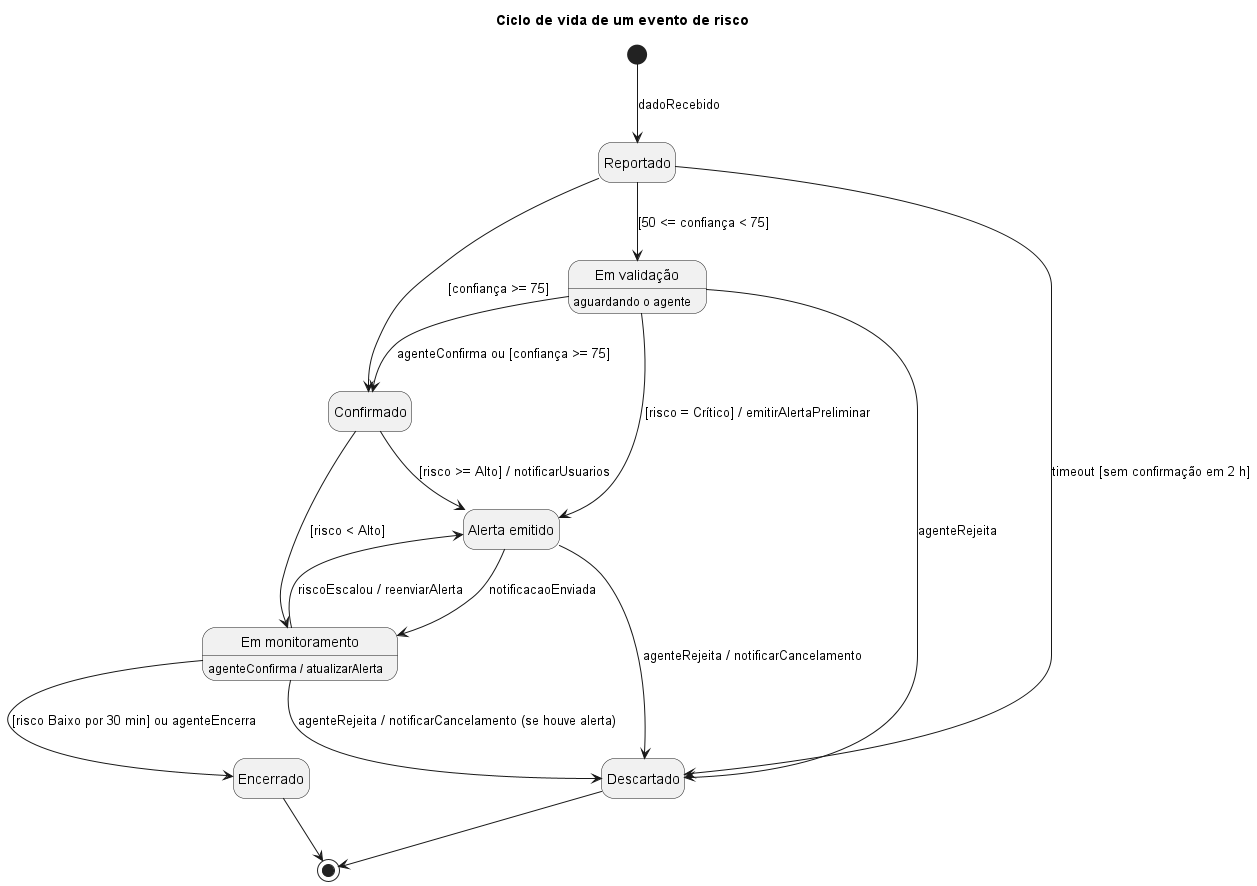
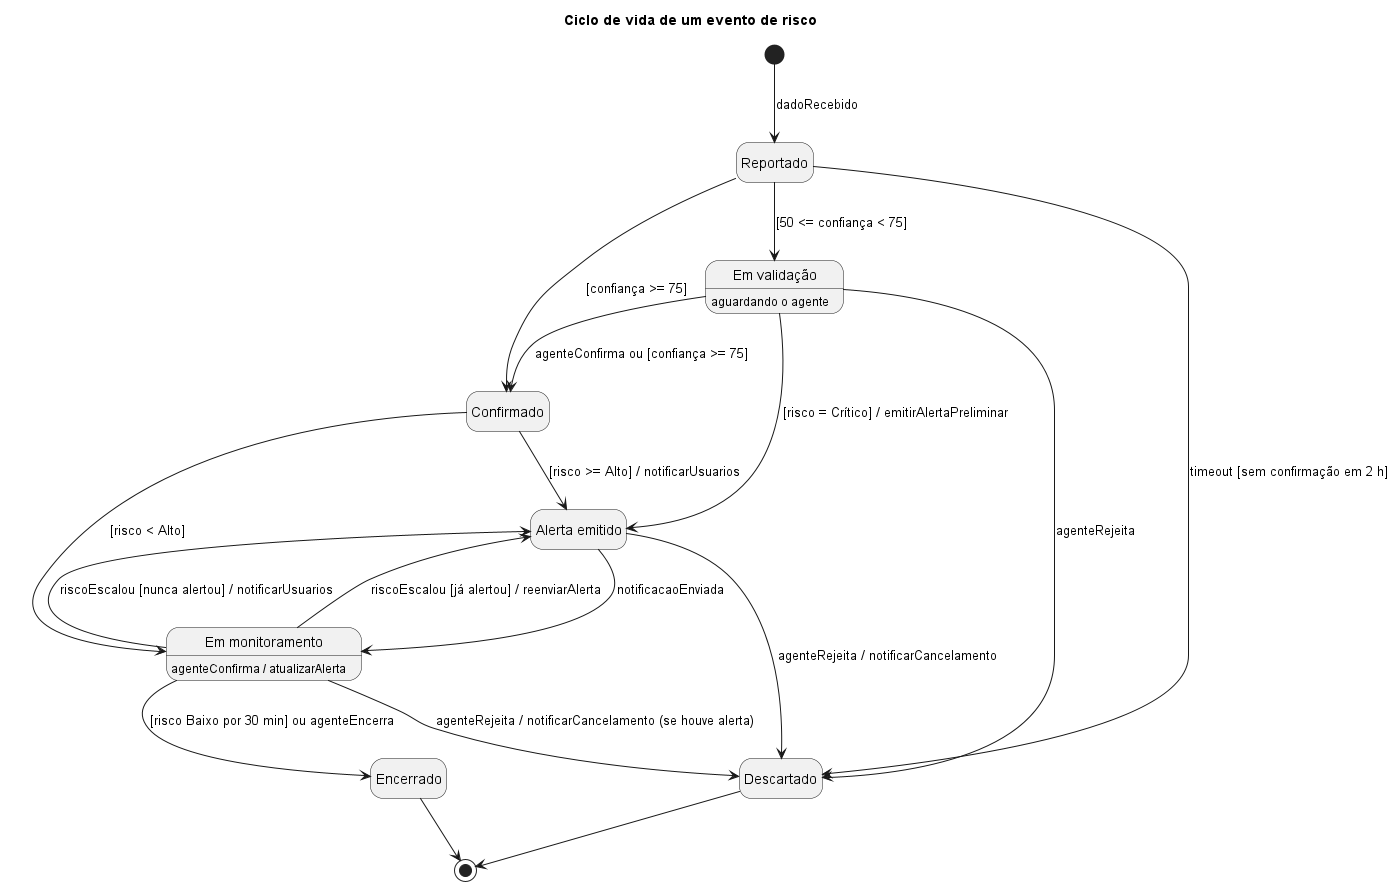
RN06 por bairro com centro e raio; RN01 com escalada após confirmação
- bairros.json com centro e raio aproximados (OpenStreetMap); área por bairro
  vira círculo: alcança se distância(centro, evento) <= raio da área + raio afetado
- RN01: depois de confirmado, a escalada alerta sem nova checagem de confiança;
  primeiro alerta usa notificarUsuarios, os seguintes reenviarAlerta
- estados.puml: duas transições com guarda [nunca alertou] / [já alertou], PNG renderizado
- 01-requisitos.md (RN01, RN06, Sobre o RF13) e CLAUDE.md atualizados; 145 testes

diff --git a/app/src/services/notificacao.test.js b/app/src/services/notificacao.test.js
@@ -1,5 +1,6 @@
 import { describe, expect, it } from 'vitest'
-import { deveNotificar, raioAfetado } from './notificacao.js'
+import { deveNotificar, raioAfetado, resolverAreas } from './notificacao.js'
+import BAIRROS from '../data/bairros.json'
 import { deslocarParaNorte } from './geo.js'
 import { MINUTO } from './parametros.js'
 
@@ -38,14 +39,46 @@ describe('RN06 — raio afetado', () => {
     expect(deveNotificar(usuario, evento(), { agora: AGORA })).toBe(true) // 1500 ≤ 1000 + 500
   })
 
-  it('área por bairro: notifica se o evento é naquele bairro', () => {
-    const ana = { areasInteresse: [{ tipo: 'bairro', bairro: 'Parque Viana' }, { tipo: 'bairro', bairro: 'Jardim Maria Helena' }] }
-    expect(deveNotificar(ana, evento(), { agora: AGORA })).toBe(true)
-    expect(deveNotificar(ana, evento({ bairro: 'Vila Lourdes' }), { agora: AGORA })).toBe(false)
-  })
 
   it('respeita os tipos de risco escolhidos nas Preferências (RF13)', () => {
     expect(deveNotificar(usuarioEm(0, { tiposRisco: ['Ilha de calor'] }), evento(), { agora: AGORA })).toBe(false)
+  })
+})
+
+describe('RN06 — área por bairro (centro e raio aproximados, RF13)', () => {
+  const PARQUE_VIANA = BAIRROS.find((b) => b.nome === 'Parque Viana')
+  const soParqueViana = { areasInteresse: resolverAreas([{ tipo: 'bairro', bairro: 'Parque Viana' }], BAIRROS) }
+
+  it('resolverAreas completa o bairro com centro e raio do catálogo', () => {
+    expect(soParqueViana.areasInteresse[0]).toMatchObject({ lat: PARQUE_VIANA.lat, lng: PARQUE_VIANA.lng, raioM: 500 })
+    expect(() => resolverAreas([{ tipo: 'bairro', bairro: 'Alphaville' }], BAIRROS)).toThrow()
+  })
+
+  it('alagamento no Jd. Maria Helena perto da divisa alcança quem só tem Parque Viana', () => {
+    const pertoDaDivisa = evento({ bairro: 'Jardim Maria Helena', lat: -23.534, lng: -46.865 }) // ~800 m do centro do Parque Viana
+    expect(deveNotificar(soParqueViana, pertoDaDivisa, { agora: AGORA })).toBe(true)
+  })
+
+  it('alagamento no centro do Jd. Maria Helena (~1,3 km) não alcança quem só tem Parque Viana', () => {
+    const centroJmh = evento({ bairro: 'Jardim Maria Helena', lat: -23.5293, lng: -46.8638 })
+    expect(deveNotificar(soParqueViana, centroJmh, { agora: AGORA })).toBe(false)
+  })
+
+  it('limite exato: raio do bairro (500) + raio afetado (500) = 1000 m alcança; 1001 m não', () => {
+    const naBorda = evento(deslocarParaNorte(PARQUE_VIANA, 1000))
+    const foraDaBorda = evento(deslocarParaNorte(PARQUE_VIANA, 1001))
+    expect(deveNotificar(soParqueViana, naBorda, { agora: AGORA })).toBe(true)
+    expect(deveNotificar(soParqueViana, foraDaBorda, { agora: AGORA })).toBe(false)
+  })
+
+  it('Ilha de calor usa raio afetado de 1 km: até 1500 m do centro do bairro', () => {
+    const calor = (metros) => evento({ tipo: 'Ilha de calor', ...deslocarParaNorte(PARQUE_VIANA, metros) })
+    expect(deveNotificar(soParqueViana, calor(1500), { agora: AGORA })).toBe(true)
+    expect(deveNotificar(soParqueViana, calor(1501), { agora: AGORA })).toBe(false)
+  })
+
+  it('área sem centro e raio é um erro de dados', () => {
+    expect(() => deveNotificar({ areasInteresse: [{ tipo: 'bairro', bairro: 'Parque Viana' }] }, evento(), { agora: AGORA })).toThrow()
   })
 })
 

diff --git a/app/src/services/estados.test.js b/app/src/services/estados.test.js
@@ -119,14 +119,23 @@ describe('Alerta emitido', () => {
 describe('Em monitoramento', () => {
   const comAlerta = { historico: [{ estado: 'Alerta emitido', em: AGORA }, { estado: 'Em monitoramento', em: AGORA }] }
 
-  it('risco escalou para Alto → Alerta emitido (reenviar)', () => {
+  it('escalada de um evento que nunca alertou → Alerta emitido com notificarUsuarios (primeiro alerta)', () => {
     const r = avaliar(evento('Em monitoramento', { risco: 'Alto', confianca: 90 }), AGORA)
     expect(r.evento.estado).toBe('Alerta emitido')
-    expect(r.efeitos).toEqual([EFEITOS.REENVIAR_ALERTA])
+    expect(r.evento.riscoAlertado).toBe('Alto')
+    expect(r.efeitos).toEqual([EFEITOS.NOTIFICAR_USUARIOS])
   })
 
-  it('escalada de Alto para Crítico depois de um alerta Alto também reenvia', () => {
-    const r = avaliar(evento('Em monitoramento', { risco: 'Crítico', confianca: 90, riscoAlertado: 'Alto' }), AGORA)
+  it('RN01: depois de confirmado, a escalada alerta sem nova checagem de confiança (confiança 60)', () => {
+    // ex.: confirmado pelo agente com confiança Média e risco Moderado; depois o risco sobe para Alto
+    const r = avaliar(evento('Em monitoramento', { risco: 'Alto', confianca: 60 }), AGORA)
+    expect(r.evento.estado).toBe('Alerta emitido')
+    expect(r.efeitos).toEqual([EFEITOS.NOTIFICAR_USUARIOS])
+  })
+
+  it('escalada de Alto para Crítico depois de um alerta Alto → reenviarAlerta (mesmo com confiança 55)', () => {
+    const r = avaliar(evento('Em monitoramento', { risco: 'Crítico', confianca: 55, riscoAlertado: 'Alto' }), AGORA)
+    expect(r.evento.estado).toBe('Alerta emitido')
     expect(r.efeitos).toEqual([EFEITOS.REENVIAR_ALERTA])
   })
 

diff --git a/app/src/services/repositorio.js b/app/src/services/repositorio.js
@@ -1,6 +1,7 @@
 // Repositório em memória: carrega os dados simulados (src/data), calcula confiança e risco com os
 // serviços e segue o caminho do Diagrama de Sequência quando chega um dado novo:
 // confiança → risco → agrupamento (RN04) → consolidação (RN07) → estados → notificação (RN06).
+import bairrosJson from '../data/bairros.json'
 import eventosJson from '../data/eventos.json'
 import sensoresJson from '../data/sensores.json'
 import usuariosJson from '../data/usuarios.json'
@@ -15,7 +16,7 @@ import {
   avaliar,
   notificacaoEnviada,
 } from './estados.js'
-import { deveNotificar } from './notificacao.js'
+import { deveNotificar, resolverAreas } from './notificacao.js'
 
 const MAX_LEITURAS_GUARDADAS = 40
 
@@ -62,10 +63,13 @@ export function criarRepositorio({
   eventos = eventosJson,
   sensores = sensoresJson,
   usuarios = usuariosJson,
+  bairros = bairrosJson,
 } = {}) {
   const estado = {
+    bairros,
     sensores: sensores.map((s) => ({ ...s, leituras: [] })),
-    usuarios: usuarios.map((u) => ({ ...u })),
+    // Áreas por bairro ganham centro e raio do catálogo (RF13, RN06)
+    usuarios: usuarios.map((u) => ({ ...u, areasInteresse: resolverAreas(u.areasInteresse ?? [], bairros) })),
     eventos: [],
     notificacoes: [],
   }
@@ -179,6 +183,7 @@ export function criarRepositorio({
   return {
     listarEventos: () => estado.eventos,
     obterEvento: (id) => estado.eventos.find((e) => e.id === id),
+    listarBairros: () => estado.bairros,
     listarSensores: () => estado.sensores,
     obterSensor: (id) => estado.sensores.find((s) => s.id === id),
     listarUsuarios: () => estado.usuarios,

diff --git a/app/src/services/notificacao.js b/app/src/services/notificacao.js
@@ -9,12 +9,24 @@ export function raioAfetado(evento) {
   return RAIO_AFETADO_METROS[evento.tipo]
 }
 
-// Área de interesse (RF13): por bairro, ou por ponto no mapa com raio.
-// Ponto: os dois círculos (área do usuário e raio afetado) se tocam.
+// Área de interesse (RF13): por bairro ou por ponto no mapa com raio. As duas são círculos
+// (centro lat/lng + raioM; o bairro usa centro e raio aproximados de data/bairros.json).
+// Alcança se distância(centro da área, evento) ≤ raio da área + raio afetado do evento.
 export function areaAlcancada(area, evento) {
-  if (area.tipo === 'bairro') return area.bairro === evento.bairro
-  if (area.tipo === 'ponto') return distanciaMetros(area, evento) <= area.raioM + raioAfetado(evento)
-  return false
+  if (area.lat == null || area.lng == null || area.raioM == null) {
+    throw new Error(`Área de interesse sem centro e raio: ${area.bairro ?? area.tipo}`)
+  }
+  return distanciaMetros(area, evento) <= area.raioM + raioAfetado(evento)
+}
+
+// Completa as áreas por bairro com o centro e o raio do catálogo de bairros
+export function resolverAreas(areas, bairros) {
+  return areas.map((area) => {
+    if (area.tipo !== 'bairro') return area
+    const bairro = bairros.find((b) => b.nome === area.bairro)
+    if (!bairro) throw new Error(`Bairro não cadastrado: ${area.bairro}`)
+    return { ...area, lat: bairro.lat, lng: bairro.lng, raioM: bairro.raioM }
+  })
 }
 
 // ultimaNotificacao = { em, risco } da última vez que este usuário foi avisado deste evento (ou null)

diff --git a/app/src/services/estados.js b/app/src/services/estados.js
@@ -63,11 +63,13 @@ function passoAutomatico(evento, agora) {
       return { evento: irPara(evento, ESTADOS.EM_MONITORAMENTO, agora) }
 
     case ESTADOS.EM_MONITORAMENTO:
-      // riscoEscalou: o risco subiu em relação ao último alerta e chegou a Alto ou mais
+      // riscoEscalou: o risco subiu em relação ao último alerta e chegou a Alto ou mais.
+      // RN01: o evento já foi confirmado, então a escalada alerta sem nova checagem de confiança.
       if (riscoAltoOuMais(risco) && (!evento.riscoAlertado || compararRisco(risco, evento.riscoAlertado) > 0)) {
         return {
           evento: irPara(evento, ESTADOS.ALERTA_EMITIDO, agora, { riscoAlertado: risco }),
-          efeito: EFEITOS.REENVIAR_ALERTA,
+          // Nunca alertou → primeiro alerta (notificarUsuarios); já alertou → reenviarAlerta
+          efeito: evento.riscoAlertado ? EFEITOS.REENVIAR_ALERTA : EFEITOS.NOTIFICAR_USUARIOS,
         }
       }
       // RN05: risco Baixo por 30 min seguidos → Encerrado

diff --git a/docs/01-requisitos.md b/docs/01-requisitos.md
@@ -83,6 +83,13 @@ alerta. Também no Detalhe do alerta fica o botão **Confirmar alerta**, com que
 alerta preliminar marcado como "não confirmado" (RN02): o evento já está Em monitoramento, fora da
 Fila de validação, e a confirmação só remove a marca (transição interna do Diagrama de Estados).
 
+**Sobre o RF13:** cada bairro é representado por um **centro (lat/lng) e um raio aproximado**, como
+um círculo. Assim, escolher um bairro ou um ponto com raio funciona do mesmo jeito na regra RN06: a
+área alcança o evento se a distância entre o centro da área e o evento for ≤ raio da área + raio
+afetado do evento. Por isso, um alagamento no Jardim Maria Helena perto da divisa também avisa quem
+escolheu só o Parque Viana. Os centros e raios dos bairros são aproximações feitas a partir do
+OpenStreetMap, não limites oficiais.
+
 **Sobre o RF18:**
 
 - Situações possíveis: **Interrupção identificada**, **Em atendimento**, **Normalização parcial** e
@@ -214,12 +221,12 @@ Parque Viana: P = 3 × 25 × 0,8 + 10 = **70**.
 
 ### 4.4 Regras RN01–RN07
 
-| ID   | Regra                                                                                                                                                                                                                                                                                       | Onde aparece                                                                           |
-| ---- | ------------------------------------------------------------------------------------------------------------------------------------------------------------------------------------------------------------------------------------------------------------------------------------------- | -------------------------------------------------------------------------------------- |
-| RN01 | O alerta público é emitido automaticamente apenas quando **risco ≥ Alto e confiança ≥ 75**.                                                                                                                                                                                                 | Estados: Reportado → Confirmado → Alerta emitido                                       |
-| RN02 | Com **confiança entre 50 e 74**, o evento fica **Em validação**, aguardando o agente na Fila de validação. Se o risco for **Crítico**, sai um alerta preliminar marcado como **"não confirmado"**; quando o agente confirma, a marca é removida.                                            | Estados: Reportado → Em validação; Em monitoramento (agenteConfirma / atualizarAlerta) |
-| RN03 | Com **confiança < 50**, o evento fica **Reportado** aguardando confirmações e é **Descartado** se não houver nenhuma em **2 h**. Se as confirmações elevarem a confiança, valem a RN01 ou a RN02.                                                                                           | Estados: Reportado → Descartado                                                        |
-| RN04 | Dados do **mesmo tipo** a até **300 m** e **60 min** um do outro são agrupados no mesmo evento.                                                                                                                                                                                             | Serviço de Validação                                                                   |
-| RN05 | O evento é **Encerrado** quando o risco fica abaixo do limiar de Moderado (Baixo) por **30 min** seguidos ou quando o agente o encerra.                                                                                                                                                     | Estados: Em monitoramento → Encerrado                                                  |
-| RN06 | Só recebe notificação quem tem **área de interesse** no raio afetado: **500 m** para Alagamento, **1 km** para Ilha de calor e a **área informada pelo operador** para Interrupção de serviço. O mesmo evento não é renotificado em menos de **15 min**, salvo se o risco subir (escalada). | Serviço de Notificação; Central de notificações                                        |
-| RN07 | O **risco** e a **confiança** do evento são o **maior valor** entre os dados agrupados.                                                                                                                                                                                                     | Motor de Confiança; Motor de Classificação de Risco                                    |
+| ID   | Regra                                                                                                                                                                                                                                                                                                                                                                                                                                           | Onde aparece                                                                           |
+| ---- | ----------------------------------------------------------------------------------------------------------------------------------------------------------------------------------------------------------------------------------------------------------------------------------------------------------------------------------------------------------------------------------------------------------------------------------------------- | -------------------------------------------------------------------------------------- |
+| RN01 | O alerta público é emitido automaticamente apenas quando **risco ≥ Alto e confiança ≥ 75**. Depois de confirmado (por confiança ou pelo agente), o evento emite novos alertas por escalada de risco sem nova checagem de confiança.                                                                                                                                                                                                             | Estados: Reportado → Confirmado → Alerta emitido                                       |
+| RN02 | Com **confiança entre 50 e 74**, o evento fica **Em validação**, aguardando o agente na Fila de validação. Se o risco for **Crítico**, sai um alerta preliminar marcado como **"não confirmado"**; quando o agente confirma, a marca é removida.                                                                                                                                                                                                | Estados: Reportado → Em validação; Em monitoramento (agenteConfirma / atualizarAlerta) |
+| RN03 | Com **confiança < 50**, o evento fica **Reportado** aguardando confirmações e é **Descartado** se não houver nenhuma em **2 h**. Se as confirmações elevarem a confiança, valem a RN01 ou a RN02.                                                                                                                                                                                                                                               | Estados: Reportado → Descartado                                                        |
+| RN04 | Dados do **mesmo tipo** a até **300 m** e **60 min** um do outro são agrupados no mesmo evento.                                                                                                                                                                                                                                                                                                                                                 | Serviço de Validação                                                                   |
+| RN05 | O evento é **Encerrado** quando o risco fica abaixo do limiar de Moderado (Baixo) por **30 min** seguidos ou quando o agente o encerra.                                                                                                                                                                                                                                                                                                         | Estados: Em monitoramento → Encerrado                                                  |
+| RN06 | Só recebe notificação quem tem **área de interesse** no raio afetado: **500 m** para Alagamento, **1 km** para Ilha de calor e a **área informada pelo operador** para Interrupção de serviço. A área de interesse alcança o evento quando a distância entre o seu centro (bairro ou ponto) e o evento é ≤ raio da área + raio afetado (ver RF13). O mesmo evento não é renotificado em menos de **15 min**, salvo se o risco subir (escalada). | Serviço de Notificação; Central de notificações                                        |
+| RN07 | O **risco** e a **confiança** do evento são o **maior valor** entre os dados agrupados.                                                                                                                                                                                                                                                                                                                                                         | Motor de Confiança; Motor de Classificação de Risco                                    |

diff --git a/CLAUDE.md b/CLAUDE.md
@@ -95,18 +95,21 @@ a inundações do SGB (Barueri, 2017).
 - Alagamento por nível do rio (falta = cota de transbordamento − nível; parâmetros fictícios, não cotas oficiais):
   Moderado falta ≤ 1,0 m; Alto falta ≤ 0,5 m; Crítico transbordou (falta < 0). Vale o maior entre nível do rio,
   lâmina d'água em via e chuva.
-- Áreas de interesse (RF13): por bairro ou por ponto no mapa com raio (ex.: 1 km).
+- Áreas de interesse (RF13): por bairro ou por ponto no mapa com raio (ex.: 1 km). Cada bairro tem centro e
+  raio aproximados (`app/src/data/bairros.json`, a partir do OpenStreetMap), então bairro e ponto viram círculos.
 - Faixas de risco usam ≥ e < (sem lacunas); se dois critérios se aplicam, vale o nível mais alto.
 - Prioridade P = R × 25 × (C/100) + V, com R = 1..4 (Baixo..Crítico), C = confiança, V = +10 área vulnerável
   (hospital, escola, comunidade vulnerável ou área suscetível a inundação na carta do SGB, Barueri 2017; aplicado uma vez só).
-- RN01 alerta automático só com risco ≥ Alto e confiança ≥ 75.
+- RN01 alerta automático só com risco ≥ Alto e confiança ≥ 75. Depois de confirmado (por confiança ou pelo agente),
+  o evento emite novos alertas por escalada de risco sem nova checagem de confiança.
 - RN02 confiança 50–74 → Em validação (fila do agente); se Crítico, alerta preliminar "não confirmado",
   que perde a marca quando o agente confirma (transição interna em Em monitoramento).
 - RN03 confiança < 50 → fica Reportado; descartado sem confirmação em 2 h. Se a confiança subir, valem RN01/RN02.
 - RN04 mesmo tipo a ≤ 300 m e ≤ 60 min → mesmo evento.
 - RN05 encerra com risco Baixo por 30 min ou por ação do agente.
 - RN06 notifica só quem tem área de interesse no raio afetado (Alagamento 500 m, Ilha de calor 1 km,
-  Interrupção = área informada pelo operador); sem renotificar em < 15 min, salvo escalada.
+  Interrupção = área informada pelo operador); alcança se distância(centro da área, evento) ≤ raio da área + raio
+  afetado; sem renotificar em < 15 min, salvo escalada.
 - RN07 risco e confiança do evento = maior valor entre os dados agrupados.
 
 As funções `calcularConfianca()`, `classificarRisco()` e `calcularPrioridade()` em `app/src/services/`
